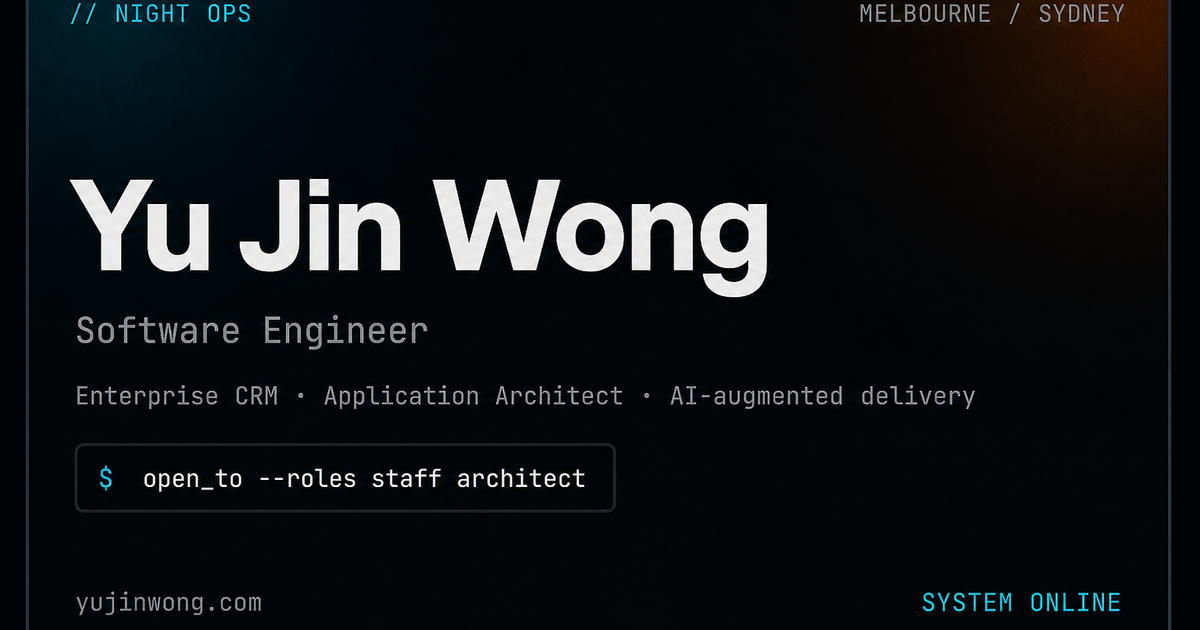
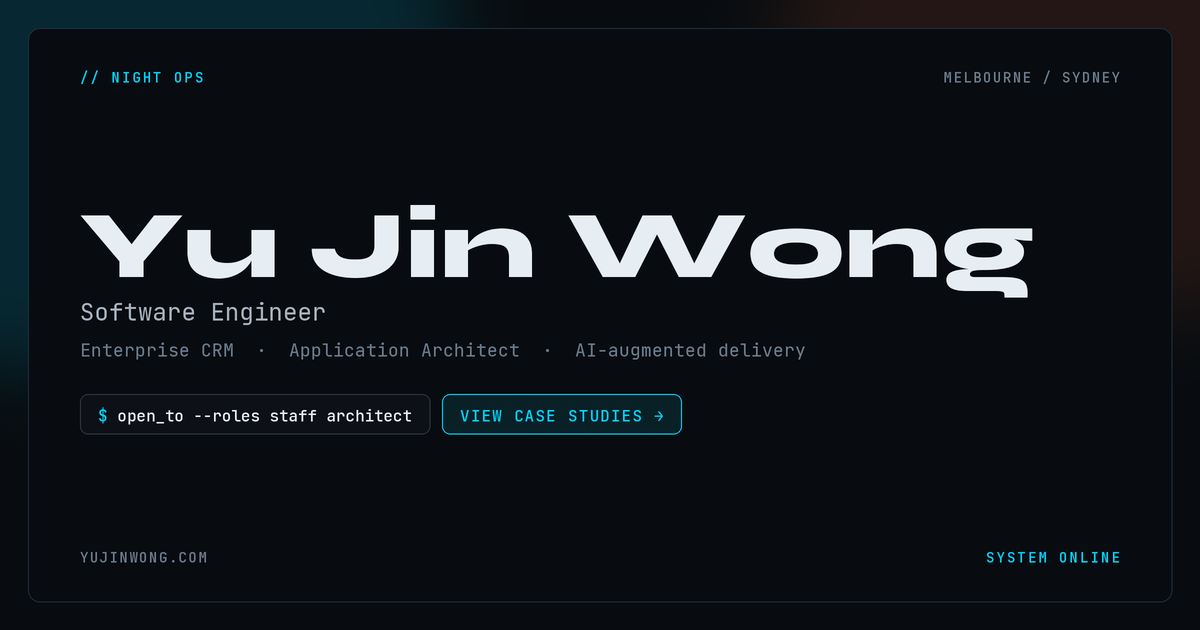
Update Open Graph and Twitter meta tags for improved social sharing and enhance styling in og-card.html
- Updated og:image URLs in index.html to include versioning for cache management.
- Added og:image:alt tag for better accessibility and context.
- Refactored button styles in og-card.html to improve layout and user interaction, introducing new action classes for better organization.

diff --git a/scripts/og-card.html b/scripts/og-card.html
@@ -71,18 +71,36 @@
         color: #6b7c8f;
         margin-bottom: 28px;
       }
-      .cmd {
+      .actions {
+        display: flex;
+        align-items: center;
+        gap: 12px;
+        flex-wrap: wrap;
+      }
+      .cmd,
+      .cta {
         display: inline-flex;
         align-items: center;
         gap: 10px;
-        padding: 10px 16px;
-        border: 1px solid #30363d;
+        padding: 12px 18px;
         border-radius: 8px;
+        font-size: 16px;
+        letter-spacing: 0.04em;
+      }
+      .cmd {
+        border: 1px solid #30363d;
         background: #0d1117;
-        font-size: 14px;
         color: #e6edf3;
       }
       .cmd b { color: #00d4ff; font-weight: 500; }
+      .cta {
+        border: 1px solid #00d4ff;
+        background: rgba(0, 212, 255, 0.08);
+        color: #00d4ff;
+        font-weight: 500;
+        letter-spacing: 0.12em;
+        text-transform: uppercase;
+      }
     </style>
   </head>
   <body>
@@ -96,7 +114,10 @@
         <h1>Yu Jin Wong</h1>
         <p class="role">Software Engineer</p>
         <p class="rest">Enterprise CRM · Application Architect · AI-augmented delivery</p>
-        <div class="cmd"><b>$</b> open_to --roles staff architect</div>
+        <div class="actions">
+          <div class="cmd"><b>$</b> open_to --roles staff architect</div>
+          <div class="cta">View case studies →</div>
+        </div>
       </div>
       <div class="bottom">
         <span>yujinwong.com</span>

diff --git a/index.html b/index.html
@@ -18,16 +18,20 @@
     <meta property="og:type" content="website" />
     <meta property="og:site_name" content="Yu Jin Wong" />
     <meta property="og:url" content="https://www.yujinwong.com/" />
-    <meta property="og:image" content="https://www.yujinwong.com/og.png" />
+    <meta property="og:image" content="https://www.yujinwong.com/og.png?v=2" />
     <meta property="og:image:width" content="1200" />
     <meta property="og:image:height" content="630" />
+    <meta
+      property="og:image:alt"
+      content="Yu Jin Wong, Software Engineer. View case studies — Enterprise CRM, application architecture, AI-augmented delivery."
+    />
     <meta name="twitter:card" content="summary_large_image" />
     <meta name="twitter:title" content="Yu Jin Wong · Software Engineer · Application Architect" />
     <meta
       name="twitter:description"
       content="Yu Jin Wong — Software Engineer. Enterprise CRM, application architecture, and AI-augmented delivery."
     />
-    <meta name="twitter:image" content="https://www.yujinwong.com/og.png" />
+    <meta name="twitter:image" content="https://www.yujinwong.com/og.png?v=2" />
     <link rel="canonical" href="https://www.yujinwong.com/" />
 
     <link rel="preconnect" href="https://fonts.googleapis.com" />
